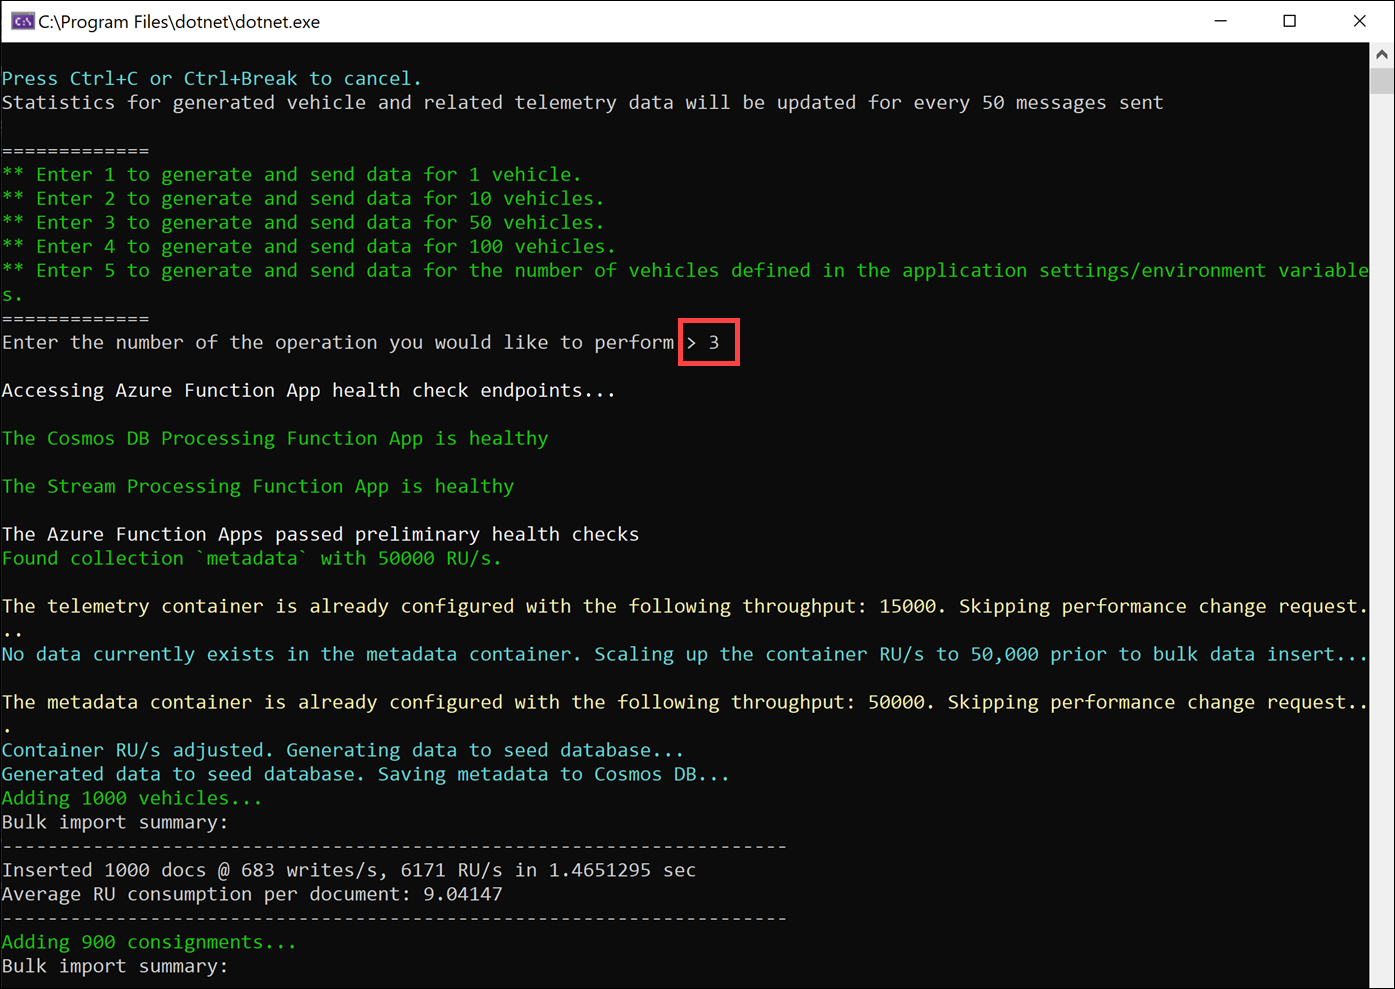
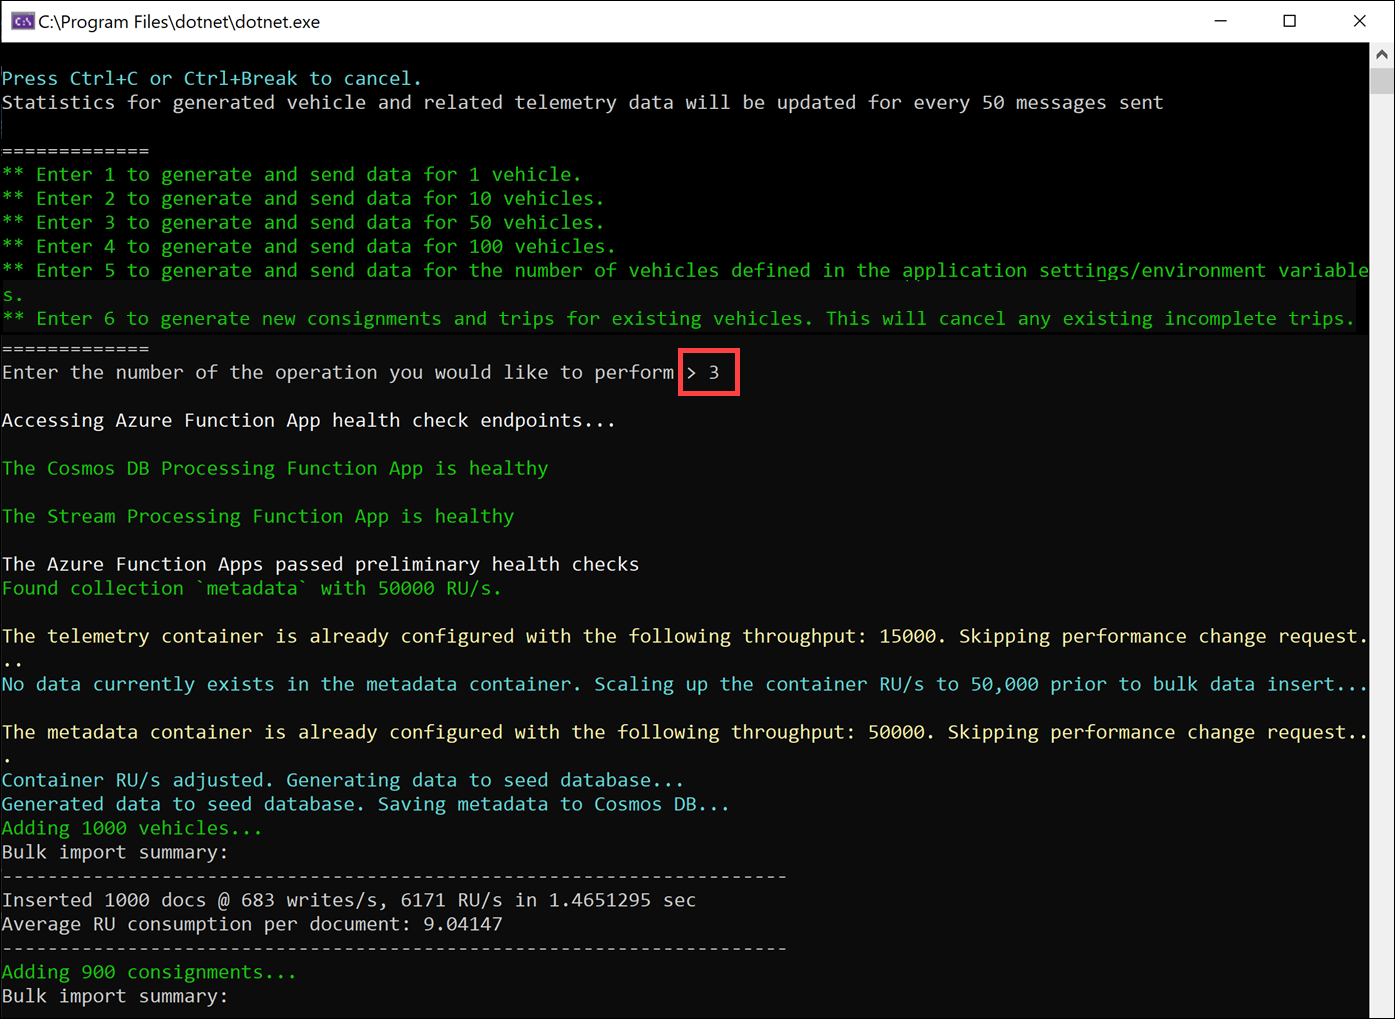
Updated code samples in the quickstart to account for data generator changes

Changed region(s): [[0.0, 0.0, 0.9864, 1.0], [0.9864, 0.0303, 1.0, 0.0607]]

diff --git a/Quickstart.md b/Quickstart.md
@@ -1535,6 +1535,7 @@ There is a lot of code within the data generator project, so we'll just touch on
 
     ```csharp
     // Instantiate Cosmos DB client and start sending messages:
+    var trips = new List<Trip>();
     using (_cosmosDbClient = new CosmosClient(cosmosDbConnectionString.ServiceEndpoint.OriginalString,
         cosmosDbConnectionString.AuthKey, connectionPolicy))
     {
@@ -1553,40 +1554,50 @@ There is a lot of code within the data generator project, so we'll just touch on
                 ConsoleColor.Green);
         }
 
-        // Initially seed the Cosmos DB database with metadata if empty.
-        await SeedDatabase(cosmosDbConnectionString, cancellationToken);
-        trips = await GetTripsFromDatabase(numberSimulatedTrucks, container);
-    }
+        // Ensure the telemetry container throughput is set to 15,000 RU/s.
+        var telemetryContainer = await GetContainerIfExists(TelemetryContainerName);
+        await ChangeContainerPerformance(telemetryContainer, 15000);
 
-    try
-    {
-        // Start sending telemetry from simulated vehicles to Event Hubs:
-        _runningVehicleTasks = await SetupVehicleTelemetryRunTasks(numberSimulatedTrucks,
-            trips, arguments.IoTHubConnectionString);
-        var tasks = _runningVehicleTasks.Select(t => t.Value).ToList();
-        while (tasks.Count > 0)
+        // Initially seed the Cosmos DB database with metadata if empty or if the user wants to generate new trips.
+        await SeedDatabase(cosmosDbConnectionString, generateNewTripsOnly, cancellationToken);
+        if (!generateNewTripsOnly)
         {
-            try
-            {
-                Task.WhenAll(tasks).Wait(cancellationToken);
-            }
-            catch (TaskCanceledException)
-            {
-                //expected
-            }
-
-            tasks = _runningVehicleTasks.Where(t => !t.Value.IsCompleted).Select(t => t.Value).ToList();
-
+            trips = await GetTripsFromDatabase(numberSimulatedTrucks, container);
         }
     }
-    catch (OperationCanceledException)
+
+    if (!generateNewTripsOnly)
     {
-        Console.WriteLine("The vehicle telemetry operation was canceled.");
-        // No need to throw, as this was expected.
+        try
+        {
+            // Start sending telemetry from simulated vehicles to Event Hubs:
+            _runningVehicleTasks = await SetupVehicleTelemetryRunTasks(numberSimulatedTrucks,
+                trips, arguments.IoTHubConnectionString);
+            var tasks = _runningVehicleTasks.Select(t => t.Value).ToList();
+            while (tasks.Count > 0)
+            {
+                try
+                {
+                    Task.WhenAll(tasks).Wait(cancellationToken);
+                }
+                catch (TaskCanceledException)
+                {
+                    //expected
+                }
+
+                tasks = _runningVehicleTasks.Where(t => !t.Value.IsCompleted).Select(t => t.Value).ToList();
+
+            }
+        }
+        catch (OperationCanceledException)
+        {
+            Console.WriteLine("The vehicle telemetry operation was canceled.");
+            // No need to throw, as this was expected.
+        }
     }
     ```
 
-    The top section of the code instantiates a new `CosmosClient`, using the connection string defined in either `appsettings.json` or the environment variables. The first call within the block is to `InitializeCosmosDb()`. We'll dig into this method in a moment, but it is responsible for creating the Cosmos DB database and containers if they do not exist in the Cosmos DB account. Next, we create a new `Container` instance, which the v3 version of the .NET Cosmos DB SDK uses for operations against a container, such as CRUD and maintenance information. For example, we call `ReadThroughputAsync` on the container to retrieve the current throughput (RU/s), and we pass it to `GetTripsFromDatabase` to read Trip documents from the container, based on the number of vehicles we are simulating. In this method, we also call the `SeedDatabase` method, which checks whether data currently exists and, if not, calls methods in the `DataGenerator` class (`DataGenerator.cs` file) to generate vehicles, consignments, packages, and trips, then writes the data in bulk using the `BulkImporter` class (`BulkImporter.cs` file). This `SeedDatabase` method executes the following on the `Container` instance to adjust the throughput (RU/s) to 50,000 before the bulk import, and back to 15,000 after the data seeding is complete: `await container.ReplaceThroughputAsync(desiredThroughput);`.
+    The top section of the code instantiates a new `CosmosClient`, using the connection string defined in either `appsettings.json` or the environment variables. The first call within the block is to `InitializeCosmosDb()`. We'll dig into this method in a moment, but it is responsible for creating the Cosmos DB database and containers if they do not exist in the Cosmos DB account. Next, we create a new `Container` instance, which the v3 version of the .NET Cosmos DB SDK uses for operations against a container, such as CRUD and maintenance information. For example, we call `ReadThroughputAsync` on the container to retrieve the current throughput (RU/s), and we pass it to `GetTripsFromDatabase` to read Trip documents from the container, based on the number of vehicles we are simulating. In this method, we also call the `SeedDatabase` method, which checks whether data currently exists and, if not, calls methods in the `DataGenerator` class (`DataGenerator.cs` file) to generate vehicles, consignments, packages, and trips, then writes the data in bulk using the `BulkImporter` class (`BulkImporter.cs` file). This `SeedDatabase` method executes the following on the `Container` instance to adjust the throughput (RU/s) to 50,000 before the bulk import, and back to 15,000 after the data seeding is complete: `await container.ReplaceThroughputAsync(desiredThroughput);`. Also notice that we are passing `generateNewTripsOnly` to the `SeedDatabase` method. This value is set to true if the user selects option 6 when executing the generator. When `generateNewTripsOnly` is set to true, any existing trips and consignments that are in pending or active status are canceled and new trips and consignments are created for existing vehicles. If no data currently exists, the `SeedDatabase` method generates all new data, as usual.
 
     The `try/catch` block calls `SetupVehicleTelemetryRunTasks` to register IoT device instances for each simulated vehicle and load up the tasks from each `SimulatedVehicle` instance it creates. It uses `Task.WhenAll` to ensure all pending tasks (simulated vehicle trips) are complete, removing completed tasks from the `_runningvehicleTasks` list as they finish. The cancellation token is used to cancel all running tasks if you issue the cancel command (`Ctrl+C` or `Ctrl+Break`) in the console.
 
@@ -1598,29 +1609,27 @@ There is a lot of code within the data generator project, so we'll just touch on
         _database = await _cosmosDbClient.CreateDatabaseIfNotExistsAsync(DatabaseName);
 
         #region Telemetry container
-        // Define a new container.
-        var telemetryContainerDefinition =
-            new ContainerProperties(id: TelemetryContainerName, partitionKeyPath: $"/{PartitionKey}")
-            {
-                IndexingPolicy = { IndexingMode = IndexingMode.Consistent }
-            };
-
-        // Tune the indexing policy for write-heavy workloads by only including regularly queried paths.
-        // Be careful when using an opt-in policy as we are below. Excluding all and only including certain paths removes
-        // Cosmos DB's ability to proactively add new properties to the index.
-        telemetryContainerDefinition.IndexingPolicy.ExcludedPaths.Clear();
-        telemetryContainerDefinition.IndexingPolicy.ExcludedPaths.Add(new ExcludedPath { Path = "/*" }); // Exclude all paths.
-        telemetryContainerDefinition.IndexingPolicy.IncludedPaths.Clear();
-        telemetryContainerDefinition.IndexingPolicy.IncludedPaths.Add(new IncludedPath { Path = "/vin/?" });
-        telemetryContainerDefinition.IndexingPolicy.IncludedPaths.Add(new IncludedPath { Path = "/state/?" });
-        telemetryContainerDefinition.IndexingPolicy.IncludedPaths.Add(new IncludedPath { Path = "/partitionKey/?" });
-
-        // Create the container with a throughput of 15000 RU/s.
-        await _database.CreateContainerIfNotExistsAsync(telemetryContainerDefinition, throughput: 15000);
+        // Define and create a new container using the builder pattern.
+        await _database.DefineContainer(TelemetryContainerName, $"/{PartitionKey}")
+            // Tune the indexing policy for write-heavy workloads by only including regularly queried paths.
+            // Be careful when using an opt-in policy as we are below. Excluding all and only including certain paths removes
+            // Cosmos DB's ability to proactively add new properties to the index.
+            .WithIndexingPolicy()
+                .WithIndexingMode(IndexingMode.Consistent)
+                .WithIncludedPaths()
+                    .Path("/vin/?")
+                    .Path("/state/?")
+                    .Path("/partitionKey/?")
+                    .Attach()
+                .WithExcludedPaths()
+                    .Path("/*")
+                    .Attach()
+                .Attach()
+            .CreateIfNotExistsAsync(15000);
         #endregion
 
         #region Metadata container
-        // Define a new container (collection).
+        // Define a new container.
         var metadataContainerDefinition =
             new ContainerProperties(id: MetadataContainerName, partitionKeyPath: $"/{PartitionKey}")
             {
@@ -1634,7 +1643,7 @@ There is a lot of code within the data generator project, so we'll just touch on
         #endregion
 
         #region Maintenance container
-        // Define a new container (collection).
+        // Define a new container.
         var maintenanceContainerDefinition =
             new ContainerProperties(id: MaintenanceContainerName, partitionKeyPath: $"/vin")
             {
@@ -1646,7 +1655,7 @@ There is a lot of code within the data generator project, so we'll just touch on
         #endregion
 
         #region Alerts container
-        // Define a new container (collection).
+        // Define a new container.
         var alertsContainerDefinition =
             new ContainerProperties(id: AlertsContainerName, partitionKeyPath: $"/id")
             {
